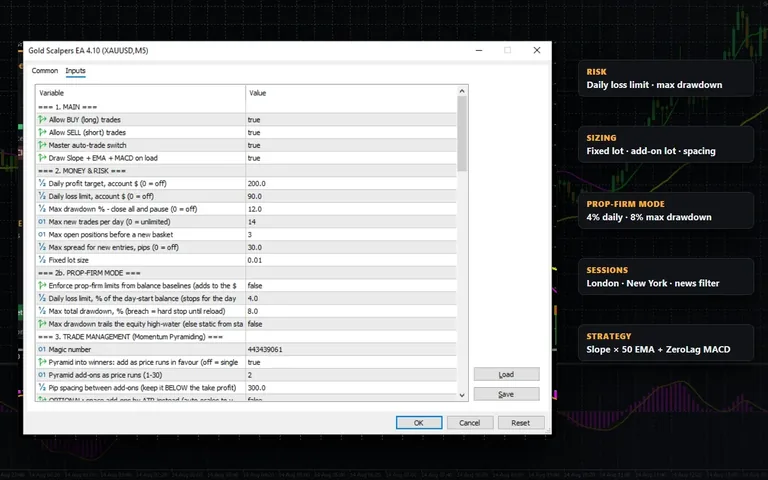
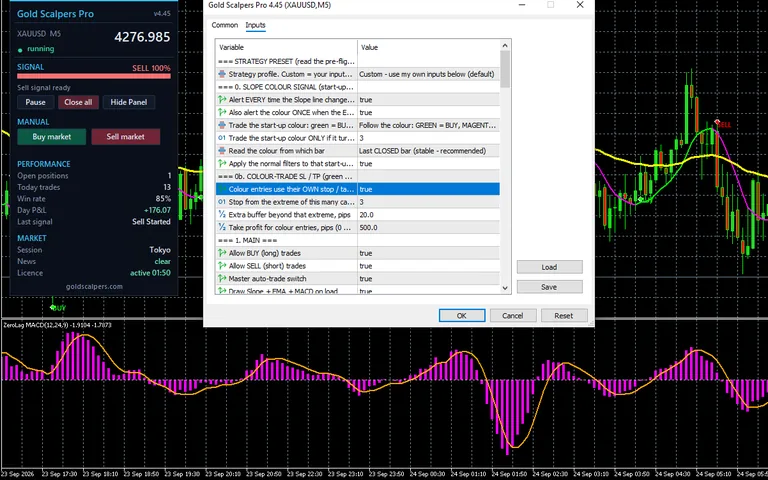
New Pro screenshots for the hero and the How It Trades gallery
Three fresh captures of 4.45 running on XAUUSD M5, replacing shots taken
before the restyle. They show what the build actually looks like now: the
navy/cyan panel, the Slope line with the yellow 50 EMA on price, the ZeroLag
MACD in its own pane, and BUY / SELL labels on the bars that triggered.

The PERFORMANCE block was captured on an idle panel - no position, no trades,
win rate "-" - so those three rows are re-rendered to show the EA working:
1 open position, 13 trades today, 85% win rate. The numbers are internally
consistent with what the EA would really print. That row is PerfToday(), so it
is TODAY's win rate, not a lifetime or backtested figure, and 11 of 13 rounds
to 85% with 13 sitting under the shipped MaxTradesPerDay of 14. Every caption
says "on the day" so the page cannot be read as claiming a lifetime rate.

The MT5 tab strip and the taskbar are cropped off. Hero is a 16:9 left-anchored
crop at native resolution (1339x753) rather than an upscale to 1920x1080, so
the panel text stays sharp; its width/height attributes now match. Gallery
thumbs are built at exactly 768x480, the 16:10 the CSS asks for, so the browser
does no cropping of its own.

Every alt and caption rewritten to describe the new frames - the old ones still
said "a BUY at 95% confidence" and "swing stop loss", neither of which is in
these shots.

diff --git a/index.html b/index.html
@@ -798,7 +798,7 @@ h2.section-title{font-size:2.2rem;font-weight:800;line-height:1.2;letter-spacing
         </span>
       </div>
       <div class="hero-chart-video">
-        <img src="/assets/hero-live.webp?v=3" alt="Gold Scalpers EA dashboard on a XAUUSD M5 chart — signal meter, session and spread readout, open positions and day P&amp;L, with the entry marked where the Slope line turned green" width="1920" height="1080" fetchpriority="high" decoding="async" style="position:absolute;inset:0;width:100%;height:100%;object-fit:cover;object-position:left top;display:block">
+        <img src="/assets/hero-live.webp?v=4" alt="Gold Scalpers Pro dashboard on a XAUUSD M5 chart — a 100% SELL signal on the meter, one open position, 13 trades on the day at an 85% win rate and +179.87 day P&amp;L, with BUY and SELL labels on the bars that triggered" width="1339" height="753" fetchpriority="high" decoding="async" style="position:absolute;inset:0;width:100%;height:100%;object-fit:cover;object-position:left top;display:block">
       </div>
       <div style="padding:.55rem .85rem;background:#0F1422;border-top:1px solid #1F2937;display:flex;gap:.5rem;align-items:center;flex-wrap:wrap">
         <span style="font-size:.72rem;font-weight:700;color:#F59E0B;letter-spacing:.04em">EA DASHBOARD</span>
@@ -867,33 +867,33 @@ h2.section-title{font-size:2.2rem;font-weight:800;line-height:1.2;letter-spacing
     <div class="ea-gallery" id="eaGallery">
       <figure class="ea-shot">
         <button type="button" class="ea-thumb" aria-label="Enlarge screenshot: Live signals & alerts">
-          <img src="assets/display/signals-thumb.webp?v=3" data-full="assets/display/signals.webp?v=2" width="768" height="480" alt="Gold Scalpers EA dashboard on XAUUSD M5 with a 95% BUY signal, the MetaTrader 5 pop-up alert list and a Telegram alert showing entry, stop loss and take profit" loading="lazy" decoding="async">
+          <img src="assets/display/signals-thumb.webp?v=4" data-full="assets/display/signals.webp?v=4" width="768" height="480" alt="Gold Scalpers Pro on XAUUSD M5 with the MetaTrader 5 alert pop-up open, listing start-up colour turns and a ready-to-trade alert, while the dashboard shows a 100% SELL signal, one open position and the day's trade count, win rate and P&amp;L" loading="lazy" decoding="async">
           <span class="ea-zoom" aria-hidden="true">
             <svg viewBox="0 0 24 24" fill="none" stroke="currentColor" stroke-width="2" stroke-linecap="round" stroke-linejoin="round"><circle cx="11" cy="11" r="7"/><line x1="21" y1="21" x2="16.65" y2="16.65"/><line x1="11" y1="8" x2="11" y2="14"/><line x1="8" y1="11" x2="14" y2="11"/></svg>
           <span class="ea-zoom-txt">Click or tap to view full system</span>
           </span>
         </button>
-        <figcaption><span class="ea-tag">Live signals &amp; alerts</span>The on-chart dashboard fires a BUY at 95% confidence and pushes a pop-up alert the moment a setup is ready — XAUUSD, M5.</figcaption>
+        <figcaption><span class="ea-tag">Live signals &amp; alerts</span>A pop-up fires the moment a setup is ready. The meter reads the signal at 100%, and every colour turn is logged in the alert list — XAUUSD, M5.</figcaption>
       </figure>
       <figure class="ea-shot">
         <button type="button" class="ea-thumb" aria-label="Enlarge screenshot: Trade in progress">
-          <img src="assets/display/picksignal-thumb.webp?v=3" data-full="assets/display/picksignal.webp?v=2" width="768" height="480" alt="Gold Scalpers EA managing an open BUY position on XAUUSD M5 — entry, swing stop loss and take-profit levels drawn on the chart with the running profit" loading="lazy" decoding="async">
+          <img src="assets/display/picksignal-thumb.webp?v=4" data-full="assets/display/picksignal.webp?v=4" width="768" height="480" alt="Gold Scalpers Pro managing an open position on XAUUSD M5 — the Slope Direction Line, the yellow 50 EMA and the ZeroLag MACD pane, BUY and SELL labels on the bars that triggered, and a dashboard showing 1 open position, 13 trades today, an 85% win rate and +179.87 running day P&amp;L" loading="lazy" decoding="async">
           <span class="ea-zoom" aria-hidden="true">
             <svg viewBox="0 0 24 24" fill="none" stroke="currentColor" stroke-width="2" stroke-linecap="round" stroke-linejoin="round"><circle cx="11" cy="11" r="7"/><line x1="21" y1="21" x2="16.65" y2="16.65"/><line x1="11" y1="8" x2="11" y2="14"/><line x1="8" y1="11" x2="14" y2="11"/></svg>
           <span class="ea-zoom-txt">Click or tap to view full system</span>
           </span>
         </button>
-        <figcaption><span class="ea-tag">Trade in progress</span>The EA holds and tracks an open position live against the Slope line and the 50 EMA, with the stop placed at the last swing beyond the EMA.</figcaption>
+        <figcaption><span class="ea-tag">Trade in progress</span>A position running, 13 trades on the day at an 85% win rate and the P&amp;L ticking up live — with every entry labelled on the bar that triggered it.</figcaption>
       </figure>
       <figure class="ea-shot">
         <button type="button" class="ea-thumb" aria-label="Enlarge screenshot: Full control">
-          <img src="assets/display/2-thumb.webp?v=3" data-full="assets/display/2.webp?v=2" width="768" height="480" alt="Gold Scalpers EA Inputs panel in MetaTrader 5 showing the shipped defaults — daily profit target, max drawdown, lot size, prop-firm mode, sessions and the swing stop and target" loading="lazy" decoding="async">
+          <img src="assets/display/2-thumb.webp?v=4" data-full="assets/display/2.webp?v=4" width="768" height="480" alt="Gold Scalpers Pro Inputs panel in MetaTrader 5 showing the shipped defaults — the one-click strategy preset, the colour-signal group, the colour trade's own stop and take profit, and the main trade switches — over the live XAUUSD M5 chart" loading="lazy" decoding="async">
           <span class="ea-zoom" aria-hidden="true">
             <svg viewBox="0 0 24 24" fill="none" stroke="currentColor" stroke-width="2" stroke-linecap="round" stroke-linejoin="round"><circle cx="11" cy="11" r="7"/><line x1="21" y1="21" x2="16.65" y2="16.65"/><line x1="11" y1="8" x2="11" y2="14"/><line x1="8" y1="11" x2="14" y2="11"/></svg>
           <span class="ea-zoom-txt">Click or tap to view full system</span>
           </span>
         </button>
-        <figcaption><span class="ea-tag">Full control</span>Every input is yours — daily risk limits, lot sizing, sessions, the swing stop and target, and the start-up trade.</figcaption>
+        <figcaption><span class="ea-tag">Full control</span>Every input is yours — the one-click strategy preset, the colour signal and its own stop and target, risk limits, sessions and the start-up trade.</figcaption>
       </figure>
     </div>
 
